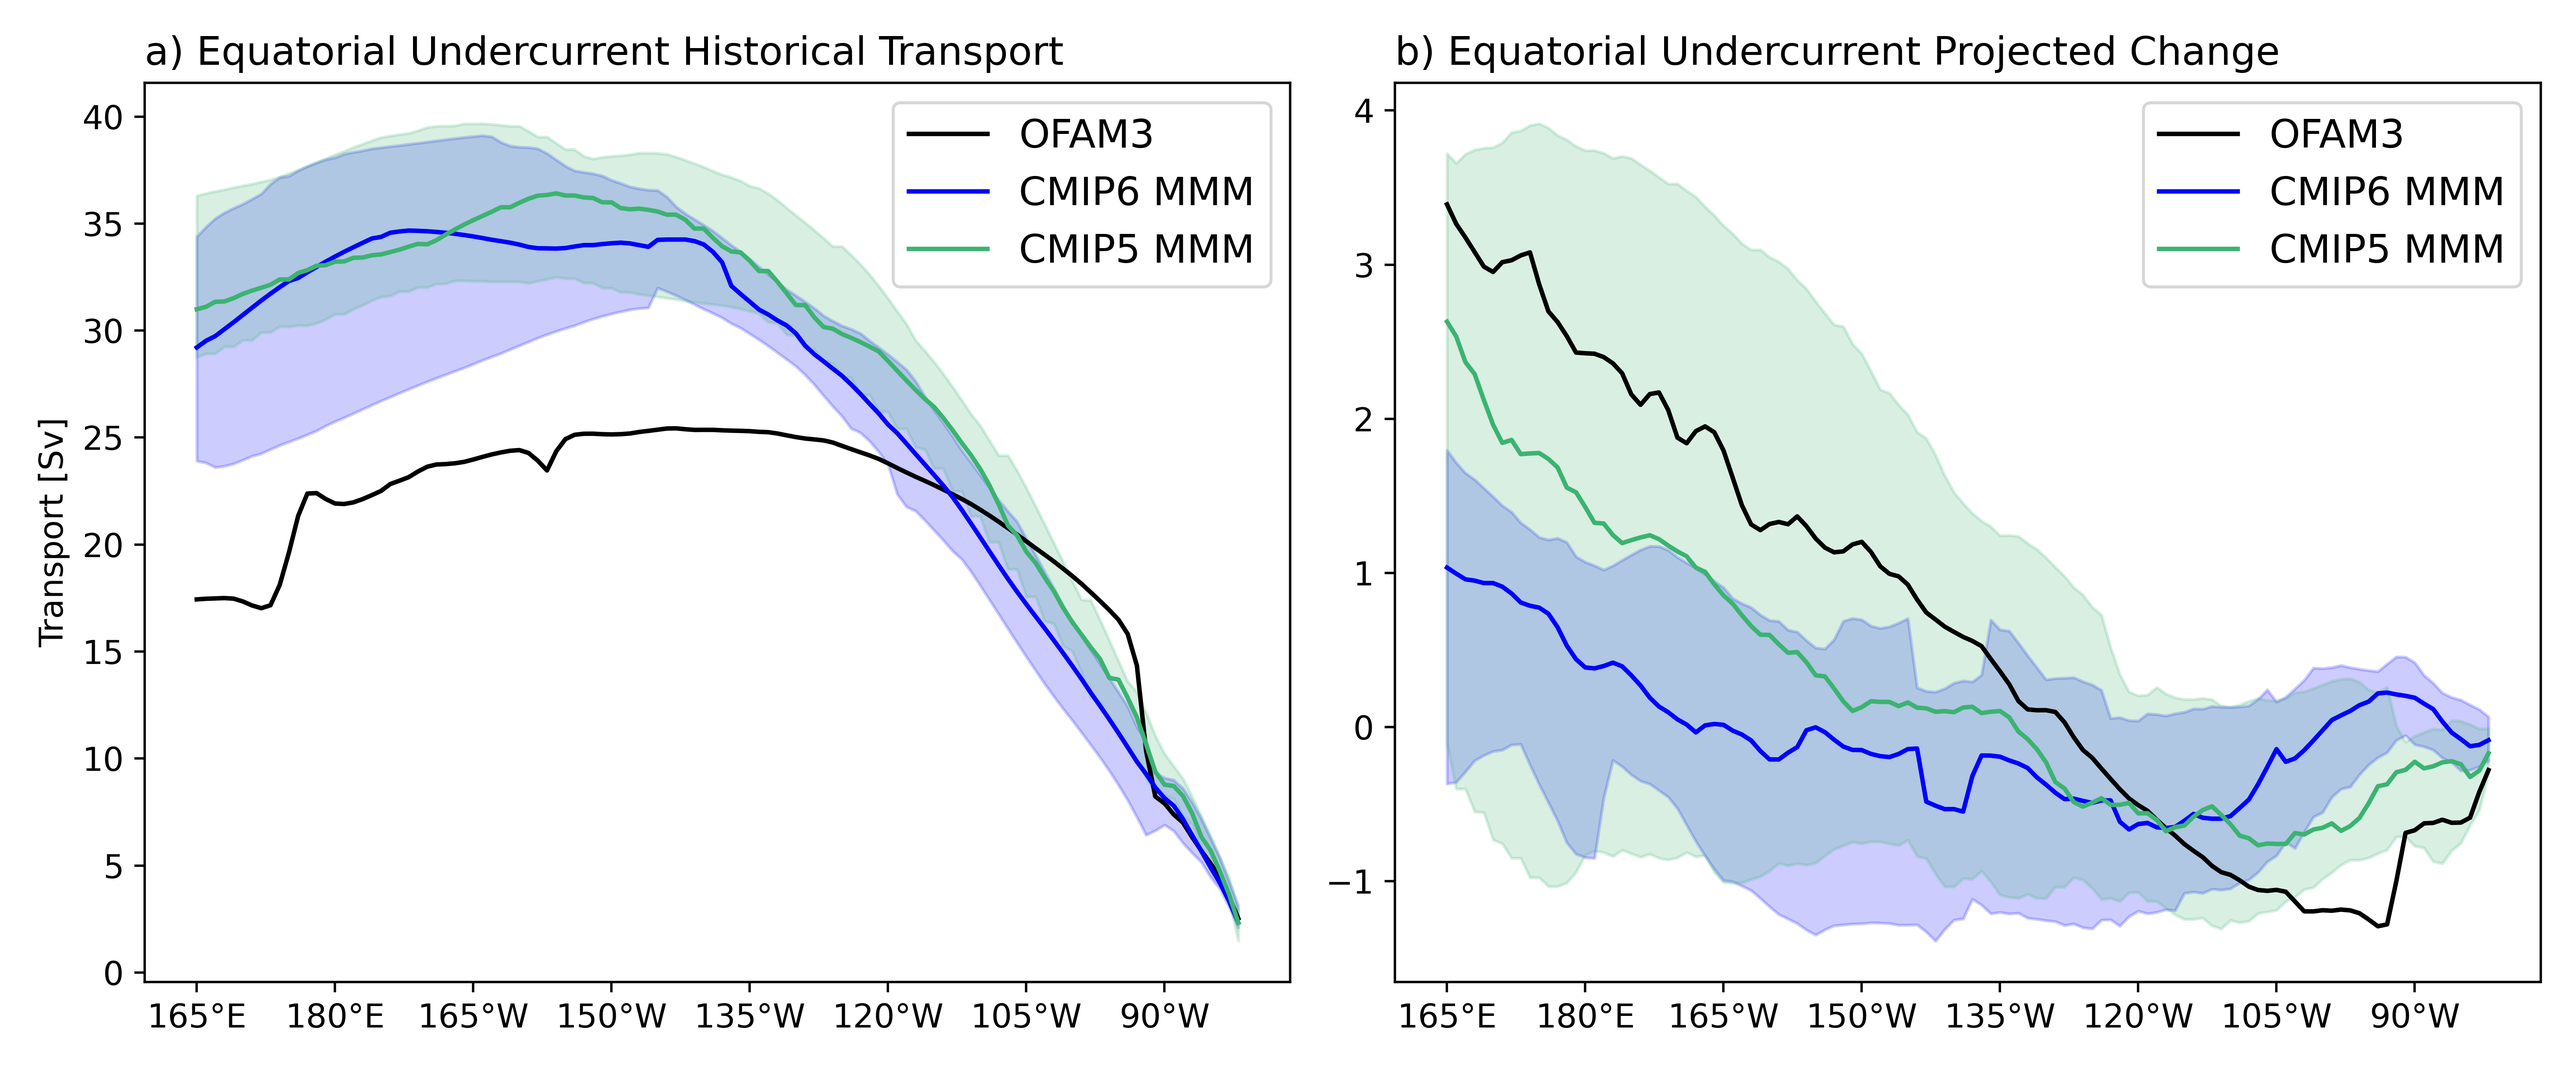
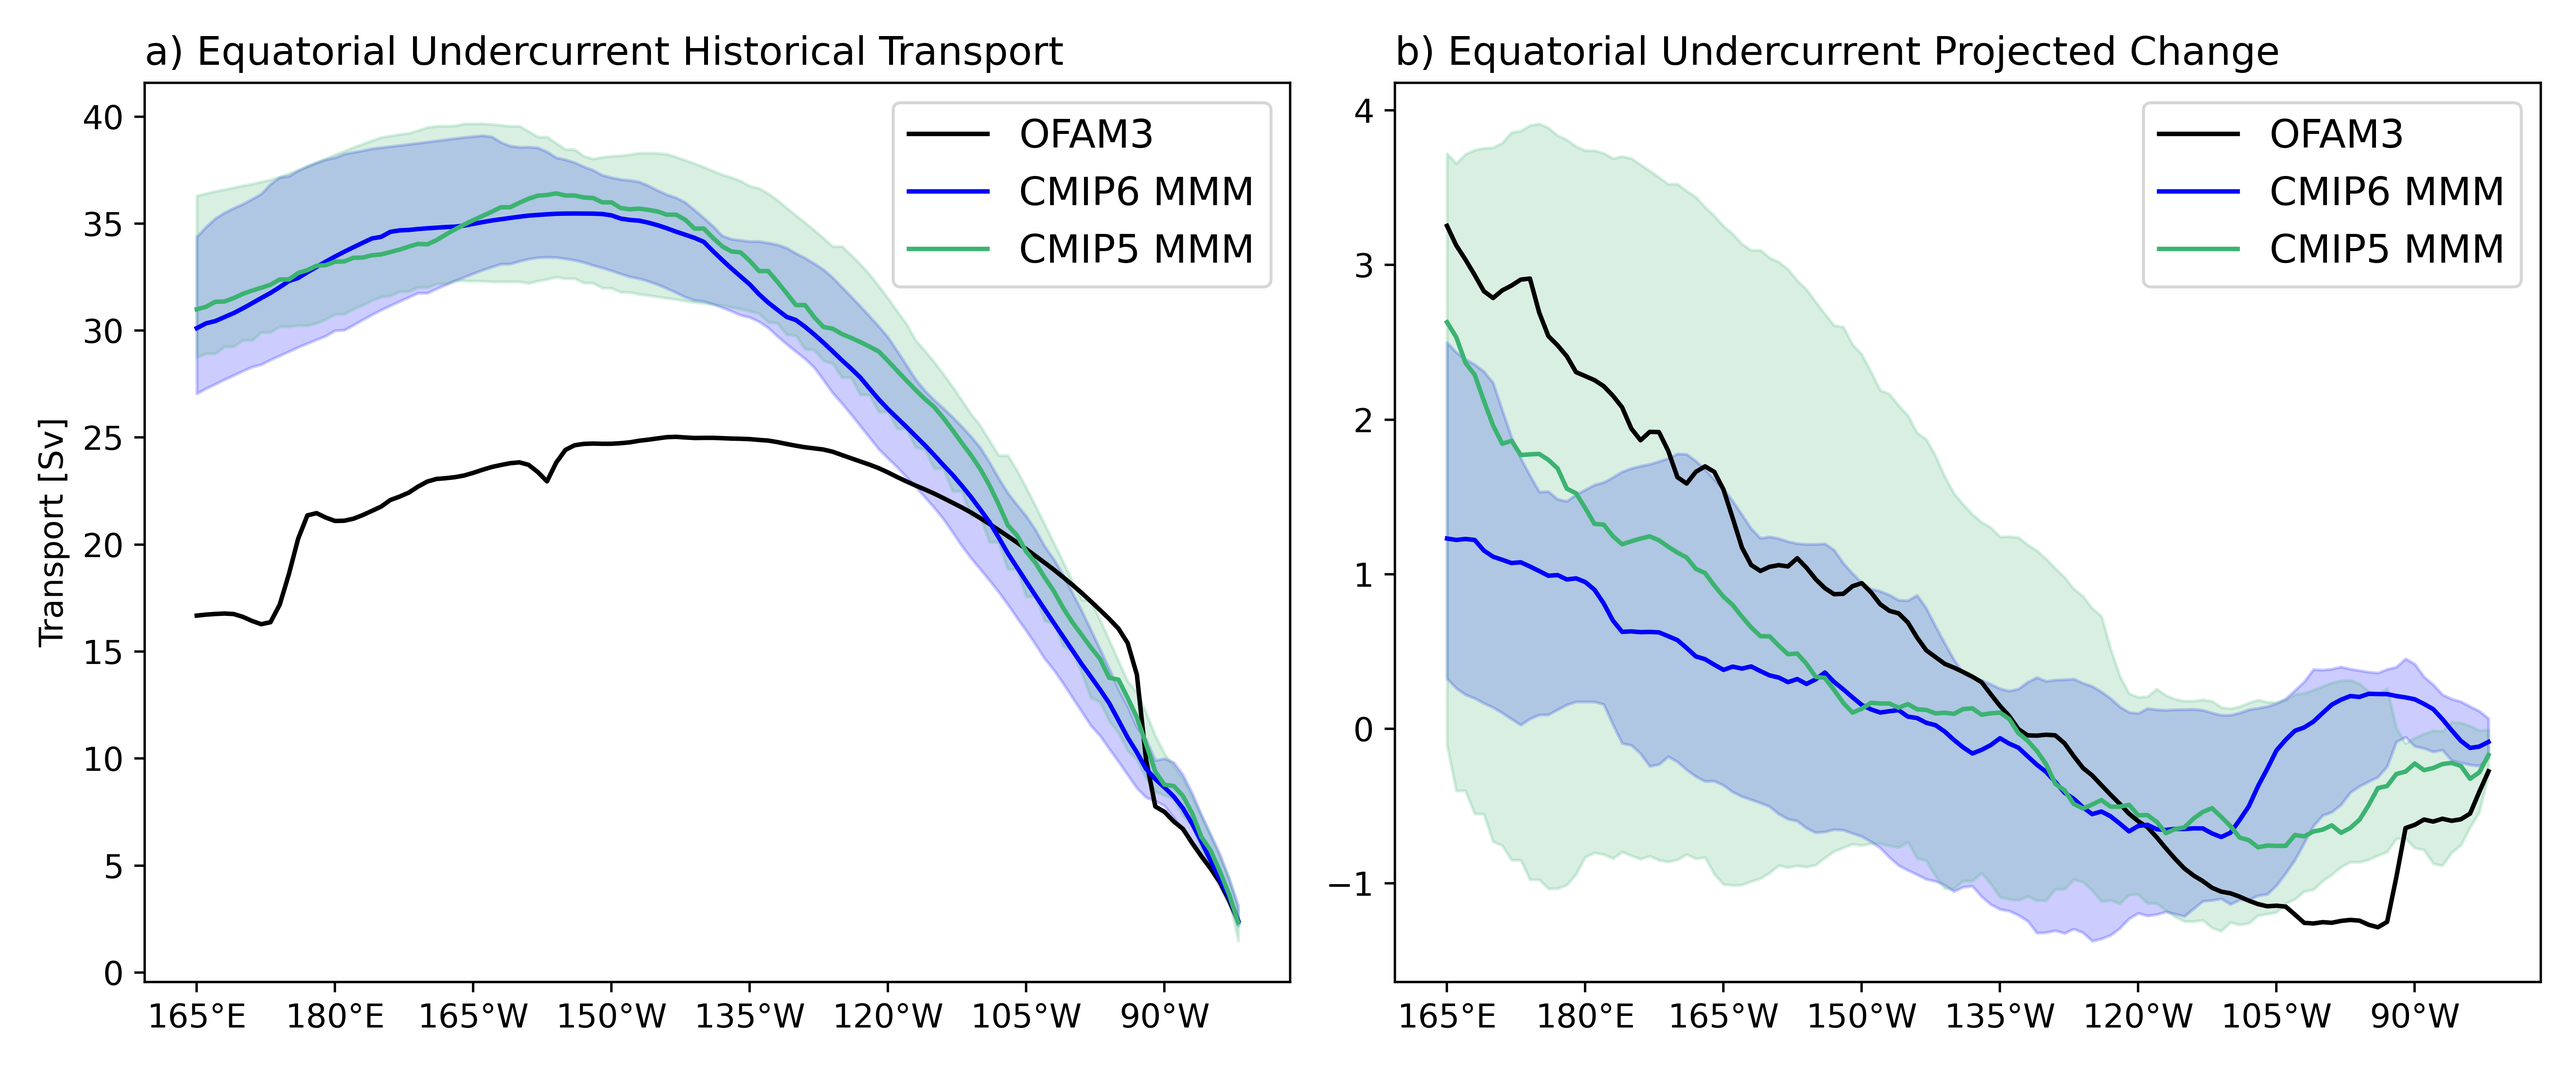
Updated CMIP scripts

Changed region(s): [[0.561, 0.2184, 0.9662, 0.8736], [0.0623, 0.156, 0.4987, 0.8112], [0.0623, 0.2808, 0.0935, 0.312]]

diff --git a/scripts/cmip_pac_transport.py b/scripts/cmip_pac_transport.py
@@ -15,83 +15,15 @@ import matplotlib.pyplot as plt
 import cfg
 from cfg import mod6, mod5, lx5, lx6
 from tools import idx, idx2d, coord_formatter
-from cmip_fncs import subset_cmip
+from cmip_fncs import subset_cmip, OFAM_EUC, CMIP_EUC
 warnings.filterwarnings(action='ignore', message='Mean of empty slice')
 
 time = cfg.mon
 lon = np.arange(165, 279)
 lat, depth = [-2.6, 2.6], [25, 350]
 
-
-def CMIP_EUC(time, depth, lat, lon, mip=6, lx=lx6, mod=mod6):
-    # Scenario, month, longitude, model.
-    var = 'uvo'
-    exp = lx['exp']
-    model = np.array([mod[i]['id'] for i in range(len(mod))])
-    ec = np.zeros((len(exp), len(time), len(lon), len(mod)))
-    ds = xr.Dataset({'ec': (['exp', 'time', 'lon', 'model'], ec)},
-                    coords={'exp': exp, 'time': time, 'lon': lon, 'model': model})
-    for m in mod:
-        for s, ex in enumerate(exp):
-            dx = subset_cmip(mip, m, var, exp[s], depth, lat, lon)
-
-            # Removed westward transport.
-            dx = dx.where(dx > 0)
-            if mod[m]['id'] in ['CMCC-CM2-SR5']:
-                dxx = dx.sum(dim=[mod[m]['cs'][0], 'i'])
-                lat_str = 'i'
-            else:
-                dxx = dx.sum(dim=[mod[m]['cs'][0], dx.dims[2]])
-                lat_str = [s for s in dx.dims if s in
-                           ['lat', 'j', 'y', 'rlat', 'nlat']][0]
-            dxx = dx.sum(dim=[mod[m]['cs'][0], lat_str])
-            # if s == 0 and mod[m]['nd'] == 1:
-            #     print('{}. {}:'.format(m, mod[m]['id']), dx[mod[m]['cs'][1]].coords)
-            # elif s == 0:
-            #     print('{}. {}:'.format(m, mod[m]['id']), dx[mod[m]['cs'][1]][:, 0].coords)
-            ds['ec'][s, :, :, m] = dxx.values
-            dx.close()
-    return ds
-
-
-def OFAM_EUC():
-    fh = xr.open_dataset(cfg.ofam/'ocean_u_1981-2012_climo.nc')
-    fr = xr.open_dataset(cfg.ofam/'ocean_u_2070-2101_climo.nc')
-
-    # Length of grid cells [m].
-    dz = xr.open_dataset(cfg.ofam/'ocean_u_2012_06.nc').st_edges_ocean
-
-
-    # EUC depth boundary indexes.
-    zi = [idx(dz[1:], depth[0]), idx(dz[1:], depth[1], 'greater') + 1]
-    # zi1 = 5  # sw_ocean[4]=25, st_ocean[5]=28, sw_ocean[5]=31.2
-    # zi2 = 29  # st_ocean[29]=325.88, sw_ocean[29]=349.5
-    # zi = [4, 29+1]
-
-    # Slice lat, lon and depth.
-    fh = fh.u.sel(yu_ocean=slice(-2.6, 2.6), xu_ocean=lon).isel(st_ocean=slice(zi[0], zi[1]))
-    fr = fr.u.sel(yu_ocean=slice(-2.6, 2.6), xu_ocean=lon).isel(st_ocean=slice(zi[0], zi[1]))
-
-    dz = dz.diff(dim='st_edges_ocean').rename({'st_edges_ocean': 'st_ocean'})
-    dz = dz.isel(st_ocean=slice(zi[0], zi[1]))
-    dz.coords['st_ocean'] = fh['st_ocean']  # Copy st_ocean coords
-    dy = fh.yu_ocean.diff(dim='yu_ocean') * cfg.LAT_DEG
-
-    # Remove westward flow.
-    fh = fh.where(fh > 0)
-    fr = fr.where(fr > 0)
-
-    # Multiply by depth and width.
-    fh = fh * dz * dy
-    fr = fr * dz * dy
-    fh = fh.sum(dim=['st_ocean', 'yu_ocean'])
-    fr = fr.sum(dim=['st_ocean', 'yu_ocean'])
-
-    return fh, fr
-
-
 # OFAM
-fh, fr = OFAM_EUC()
+fh, fr = OFAM_EUC(depth, lat, lon)
 fh = fh.mean('Time')/1e6
 fr = fr.mean('Time')/1e6
 
@@ -142,15 +74,44 @@ plt.show()
 plt.clf()
 plt.close()
 
-# # Scatter plot
-X = 220
-fig = plt.figure(figsize=(12, 5))
-plt.title('lon={}'.format(X))
-plt.scatter(dh6.sel(lon=X), (dr6 - dh6).sel(lon=X), color=c[1], label='CMIP6')
-plt.scatter(dh5.sel(lon=X), (dr5 - dh5).sel(lon=X), color=c[2], label='CMIP5')
-plt.xlabel('historical transport')
-plt.ylabel('Projected change')
-plt.legend()
-# 180 - CMIP6 'NorESM1-ME' 'NorESM1-M' large dx, mid x
-# 220 - CMIP6 'MPI-ESM1-2-LR' zero x and dx
-# 220 - CMIP5 'MPI-ESM1-2-LR' zero x and dx
+# Scatter plot
+fig, ax = plt.subplots(2, 2, figsize=(12, 8))
+ax = ax.flatten()
+for i, X in enumerate([165, 190, 220, 250]):
+    ax[i].set_title('{}Equatorial Undercurrent at {}\u00b0E'
+                    .format(cfg.lt[i], X), loc='left')
+    ax[i].scatter(dh5.sel(lon=X), (dr5 - dh5).sel(lon=X), color=c[2], label='CMIP5')
+    ax[i].scatter(dh6.sel(lon=X), (dr6 - dh6).sel(lon=X), color=c[1], label='CMIP6')
+    ax[i].scatter(fh.sel(xu_ocean=X), (fr - fh).sel(xu_ocean=X), color='m', label='OFAM3')
+    ax[i].set_xlabel('Historical transport [Sv]')
+    ax[i].set_ylabel('Projected change [Sv]')
+    if i % 2 != 0:
+        ax[i].legend()
+plt.tight_layout()
+plt.savefig(cfg.fig/'cmip/EUC_transport_scatter.png')
+print((dr5 - dh5).sel(lon=[165, 190, 220, 250]))
+# CMIP6: 165E NorESM1-ME(-2), NorESM1-M(-1) (large dx, mid x)
+# CMIP5: 220E NorESM1-ME(-2), NorESM1-M(-1) (large dx) (#-1;-2) 'MPI-ESM-LR' (small x and dx)
+# CMIP5&6: 220E MPI-ESM1-2-LR(#-6) (small x and dx)
+
+# Scatter plot (outliers removed)
+fig, ax = plt.subplots(2, 2, figsize=(12, 8))
+ax = ax.flatten()
+outliers = ['MPI-ESM-LR', 'MPI-ESM1-2-LR']  #'NorESM1-ME', 'NorESM1-M',
+inds5 = [i for i, x in enumerate(dh5.model) if x not in outliers]
+inds6 = [i for i, x in enumerate(dh6.model) if x not in outliers]
+dh5_, dr5_ = dh5.isel(model=inds5), dr5.isel(model=inds5)
+dh6_, dr6_ = dh6.isel(model=inds6), dr6.isel(model=inds6)
+
+for i, X in enumerate([165, 190, 220, 250]):
+    ax[i].set_title('{}Equatorial Undercurrent at {}\u00b0E'
+                    .format(cfg.lt[i], X), loc='left')
+    ax[i].scatter(dh5_.sel(lon=X), (dr5_ - dh5_).sel(lon=X), color=c[2], label='CMIP5')
+    ax[i].scatter(dh6_.sel(lon=X), (dr6_ - dh6_).sel(lon=X), color=c[1], label='CMIP6')
+    ax[i].scatter(fh.sel(xu_ocean=X), (fr - fh).sel(xu_ocean=X), color='m', label='OFAM3')
+    ax[i].set_xlabel('Historical transport [Sv]')
+    ax[i].set_ylabel('Projected change [Sv]')
+    if i % 2 != 0:
+        ax[i].legend()
+plt.tight_layout()
+plt.savefig(cfg.fig/'cmip/EUC_transport_scatter_no_outliers.png')

diff --git a/scripts/cmip_plot_euc.py b/scripts/cmip_plot_euc.py
@@ -24,45 +24,48 @@ def plot_cmip_bounds(mip, ex, current, var, vmax, lat, lon, depth, latb, lonb, d
     mod = mod6 if mip == 6 else mod5
     lx = lx6 if mip == 6 else lx5
     c = 1e6 if var in ['uvo', 'vvo'] else 1
-    rows = 7
-    fig, ax = plt.subplots(rows, 4, sharey=True, sharex=True, figsize=(14, 16),
+    mods = len(mod) if mip == 5 else len(mod) + 1  # Add OFAM3
+    fig, ax = plt.subplots(7, 4, sharey=True, sharex=True, figsize=(14, 16),
                            squeeze=False)
     ax = ax.flatten()
-    for i, m in enumerate(mod):
+    for m in range(mods):
+        # if m == len(mod):
         dx = subset_cmip(mip, m, var, ex, depthb, latb, lonb).mean('time')/c
         db = subset_cmip(mip, m, var, ex, depth, lat, lon).mean('time')/c
+        # elif mip == 6:
+        #     dx = xr.open_dataset(cfg.ofam/'ocean_u_1981-2012_climo.nc')
         y1, y2 = db[mod[m]['cs'][1]].values[0], db[mod[m]['cs'][1]].values[-1]
         Y = dx[mod[m]['cs'][1]].values
         Z = dx[mod[m]['cs'][0]].values
         lont = np.around(dx[mod[m]['cs'][2]].median().item(), 2)
         lont = lont + 360 if lont <= 0 else lont
-        ax[i].set_title('{}. {} EUC at {:}\u00b0E'.format(m, mod[m]['id'], lont),
+        ax[m].set_title('{}. {} EUC at {:}\u00b0E'.format(m, mod[m]['id'], lont),
                         loc='left', fontsize=10)
 
-        cs = ax[i].pcolormesh(Y, Z, dx.values, vmin=-vmax, vmax=vmax+0.001,
+        cs = ax[m].pcolormesh(Y, Z, dx.values, vmin=-vmax, vmax=vmax+0.001,
                               cmap=plt.cm.seismic, shading='nearest')
         # Plot integration boundaries
-        ax[i].axvline(y1, color='k')
-        ax[i].axvline(y2, color='k')
+        ax[m].axvline(y1, color='k')
+        ax[m].axvline(y2, color='k')
         # Depth
-        ax[i].hlines(y=db[mod[m]['cs'][0]].values[-1], xmax=y2, xmin=y1)
-        ax[i].hlines(y=db[mod[m]['cs'][0]].values[0], xmax=y2, xmin=y1)
+        ax[m].hlines(y=db[mod[m]['cs'][0]].values[-1], xmax=y2, xmin=y1)
+        ax[m].hlines(y=db[mod[m]['cs'][0]].values[0], xmax=y2, xmin=y1)
         # Add ylabel at start of rows.
-        if i % 4 == 0:
-            ax[i].set_ylabel('Depth [m]')
+        if m % 4 == 0:
+            ax[m].set_ylabel('Depth [m]')
         # Add colourbar at end of rows.
-        elif i % 4 == 3:
-            divider = make_axes_locatable(ax[i])
+        elif m % 4 == 3:
+            divider = make_axes_locatable(ax[m])
             cax = divider.append_axes('right', size='5%', pad=0.05)
             clb = fig.colorbar(cs, cax=cax, orientation='vertical')
             units = 'Transport [Sv]' if var in ['uvo', 'vvo'] else 'm/s'
             clb.set_label(units)
         # Make sure depth range starts at zero to depth.
-        ax[i].set_ylim(depthb[1], depthb[0])
-        ax[i].set_xlim(latb[0], latb[1])
+        ax[m].set_ylim(depthb[1], depthb[0])
+        ax[m].set_xlim(latb[0], latb[1])
 
     plt.tight_layout()
-    plt.savefig(cfg.fig/'cmip{}_{}_{}_{}-{}.png'
+    plt.savefig(cfg.fig/'cmip/cmip{}_{}_{}_{}-{}r.png'
                 .format(mip, current, var, *lat), format="png")
     plt.show()
     return dx

diff --git a/scripts/cmip_fncs.py b/scripts/cmip_fncs.py
@@ -112,3 +112,69 @@ def subset_cmip(mip, m, var, exp, depth, lat, lon):
         if mip == 6 and var in ['uvo', 'vvo'] and mod[m]['id'] in ['MIROC-ES2L', 'MIROC6']:
             dx = dx*-1
     return dx
+
+
+def CMIP_EUC(time, depth, lat, lon, mip, lx, mod):
+    # Scenario, month, longitude, model.
+    var = 'uvo'
+    exp = lx['exp']
+    model = np.array([mod[i]['id'] for i in range(len(mod))])
+    ec = np.zeros((len(exp), len(time), len(lon), len(mod)))
+    ds = xr.Dataset({'ec': (['exp', 'time', 'lon', 'model'], ec)},
+                    coords={'exp': exp, 'time': time, 'lon': lon, 'model': model})
+    for m in mod:
+        for s, ex in enumerate(exp):
+            dx = subset_cmip(mip, m, var, exp[s], depth, lat, lon)
+
+            # Removed westward transport.
+            dx = dx.where(dx > 0)
+            if mod[m]['id'] in ['CMCC-CM2-SR5']:
+                dxx = dx.sum(dim=[mod[m]['cs'][0], 'i'])
+                lat_str = 'i'
+            else:
+                dxx = dx.sum(dim=[mod[m]['cs'][0], dx.dims[2]])
+                lat_str = [s for s in dx.dims if s in
+                           ['lat', 'j', 'y', 'rlat', 'nlat']][0]
+            dxx = dx.sum(dim=[mod[m]['cs'][0], lat_str])
+            # if s == 0 and mod[m]['nd'] == 1:
+            #     print('{}. {}:'.format(m, mod[m]['id']), dx[mod[m]['cs'][1]].coords)
+            # elif s == 0:
+            #     print('{}. {}:'.format(m, mod[m]['id']), dx[mod[m]['cs'][1]][:, 0].coords)
+            ds['ec'][s, :, :, m] = dxx.values
+            dx.close()
+    return ds
+
+
+def OFAM_EUC(depth, lat, lon):
+    fh = xr.open_dataset(cfg.ofam/'ocean_u_1981-2012_climo.nc')
+    fr = xr.open_dataset(cfg.ofam/'ocean_u_2070-2101_climo.nc')
+
+    # Length of grid cells [m].
+    dz = xr.open_dataset(cfg.ofam/'ocean_u_2012_06.nc').st_edges_ocean
+
+
+    # EUC depth boundary indexes.
+    zi = [idx(dz[1:], depth[0]), idx(dz[1:], depth[1], 'greater') + 1]
+    zi1 = 5  # sw_ocean[4]=25, st_ocean[5]=28, sw_ocean[5]=31.2
+    zi2 = 29  # st_ocean[29]=325.88, sw_ocean[29]=349.5
+    zi = [5, 29+1]
+
+    # Slice lat, lon and depth.
+    fh = fh.u.sel(yu_ocean=slice(lat[0], lat[1]), xu_ocean=lon).isel(st_ocean=slice(zi[0], zi[1]))
+    fr = fr.u.sel(yu_ocean=slice(lat[0], lat[1]), xu_ocean=lon).isel(st_ocean=slice(zi[0], zi[1]))
+
+    dz = dz.diff(dim='st_edges_ocean').rename({'st_edges_ocean': 'st_ocean'})
+    dz = dz.isel(st_ocean=slice(zi[0], zi[1]))
+    dz.coords['st_ocean'] = fh['st_ocean']  # Copy st_ocean coords
+
+    # Remove westward flow.
+    fh = fh.where(fh > 0)
+    fr = fr.where(fr > 0)
+
+    # Multiply by depth and width.
+    fh = fh * dz * cfg.LAT_DEG * 0.1
+    fr = fr * dz * cfg.LAT_DEG * 0.1
+    fh = fh.sum(dim=['st_ocean', 'yu_ocean'])
+    fr = fr.sum(dim=['st_ocean', 'yu_ocean'])
+
+    return fh, fr
